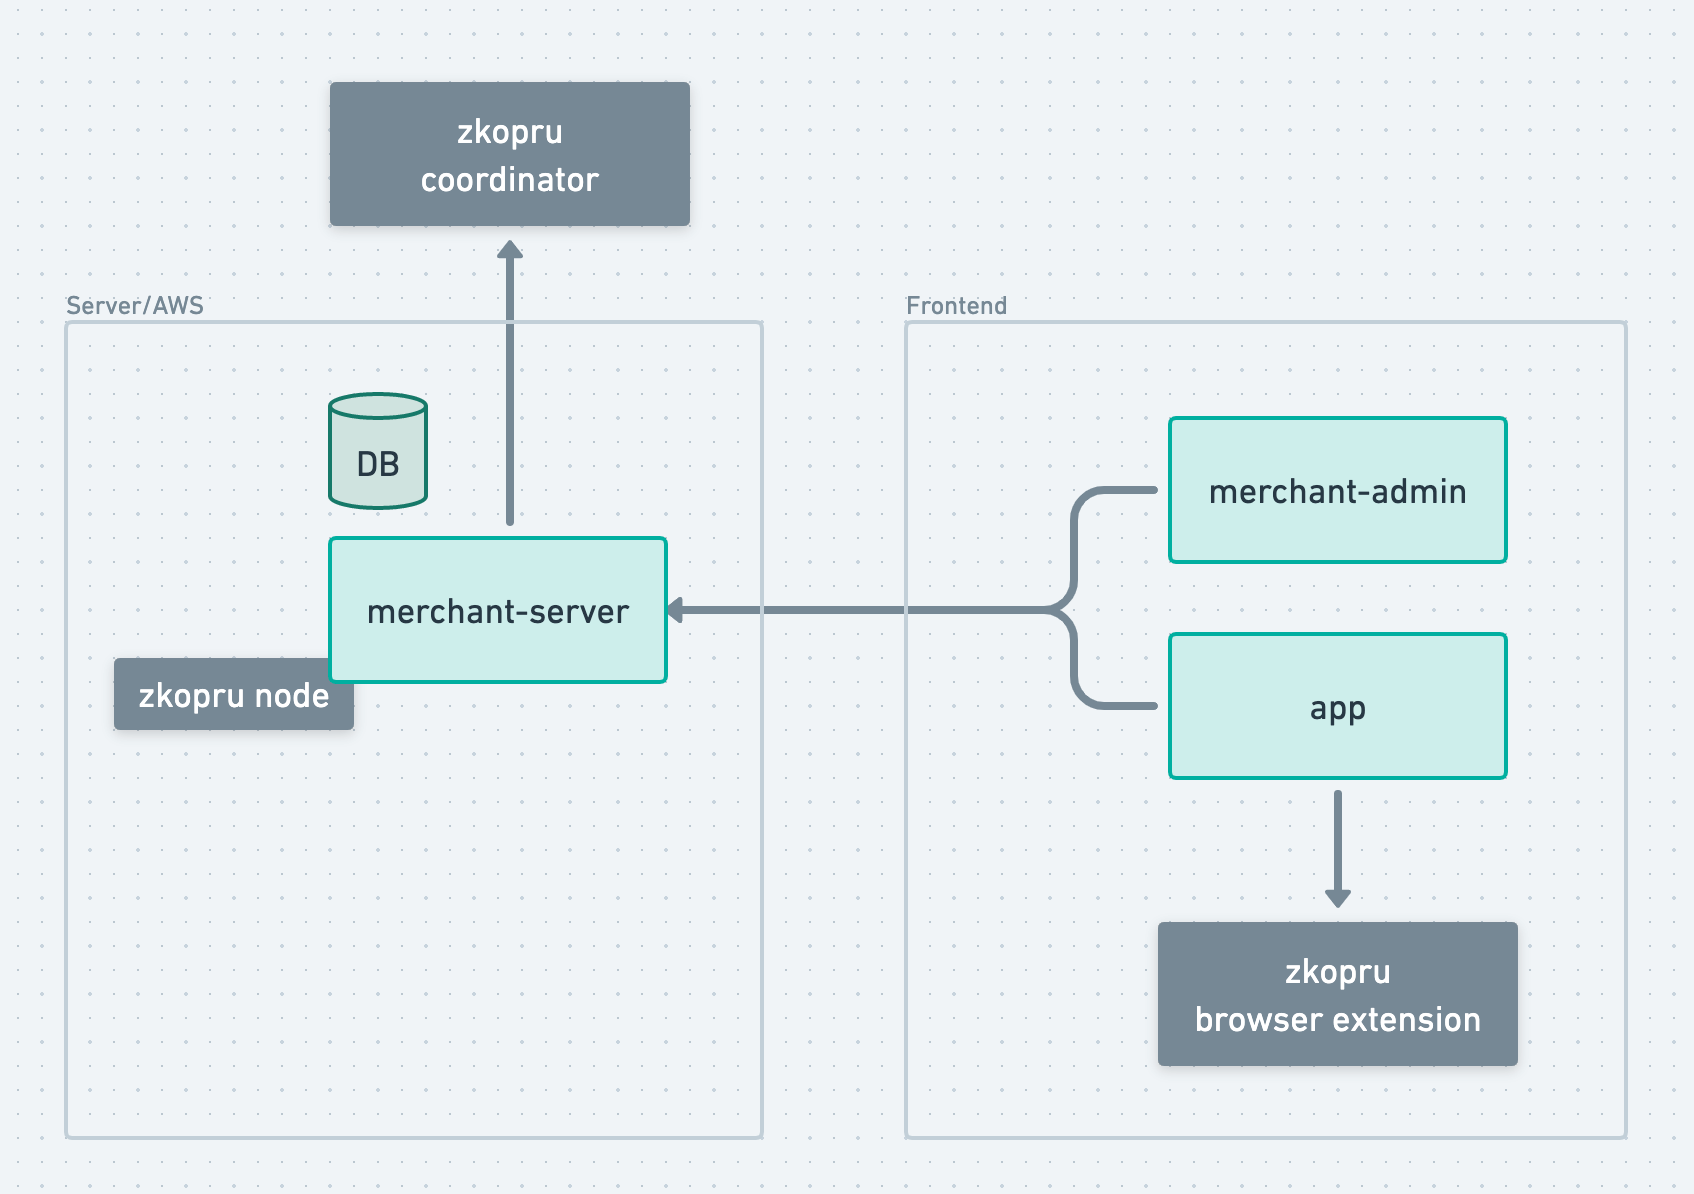
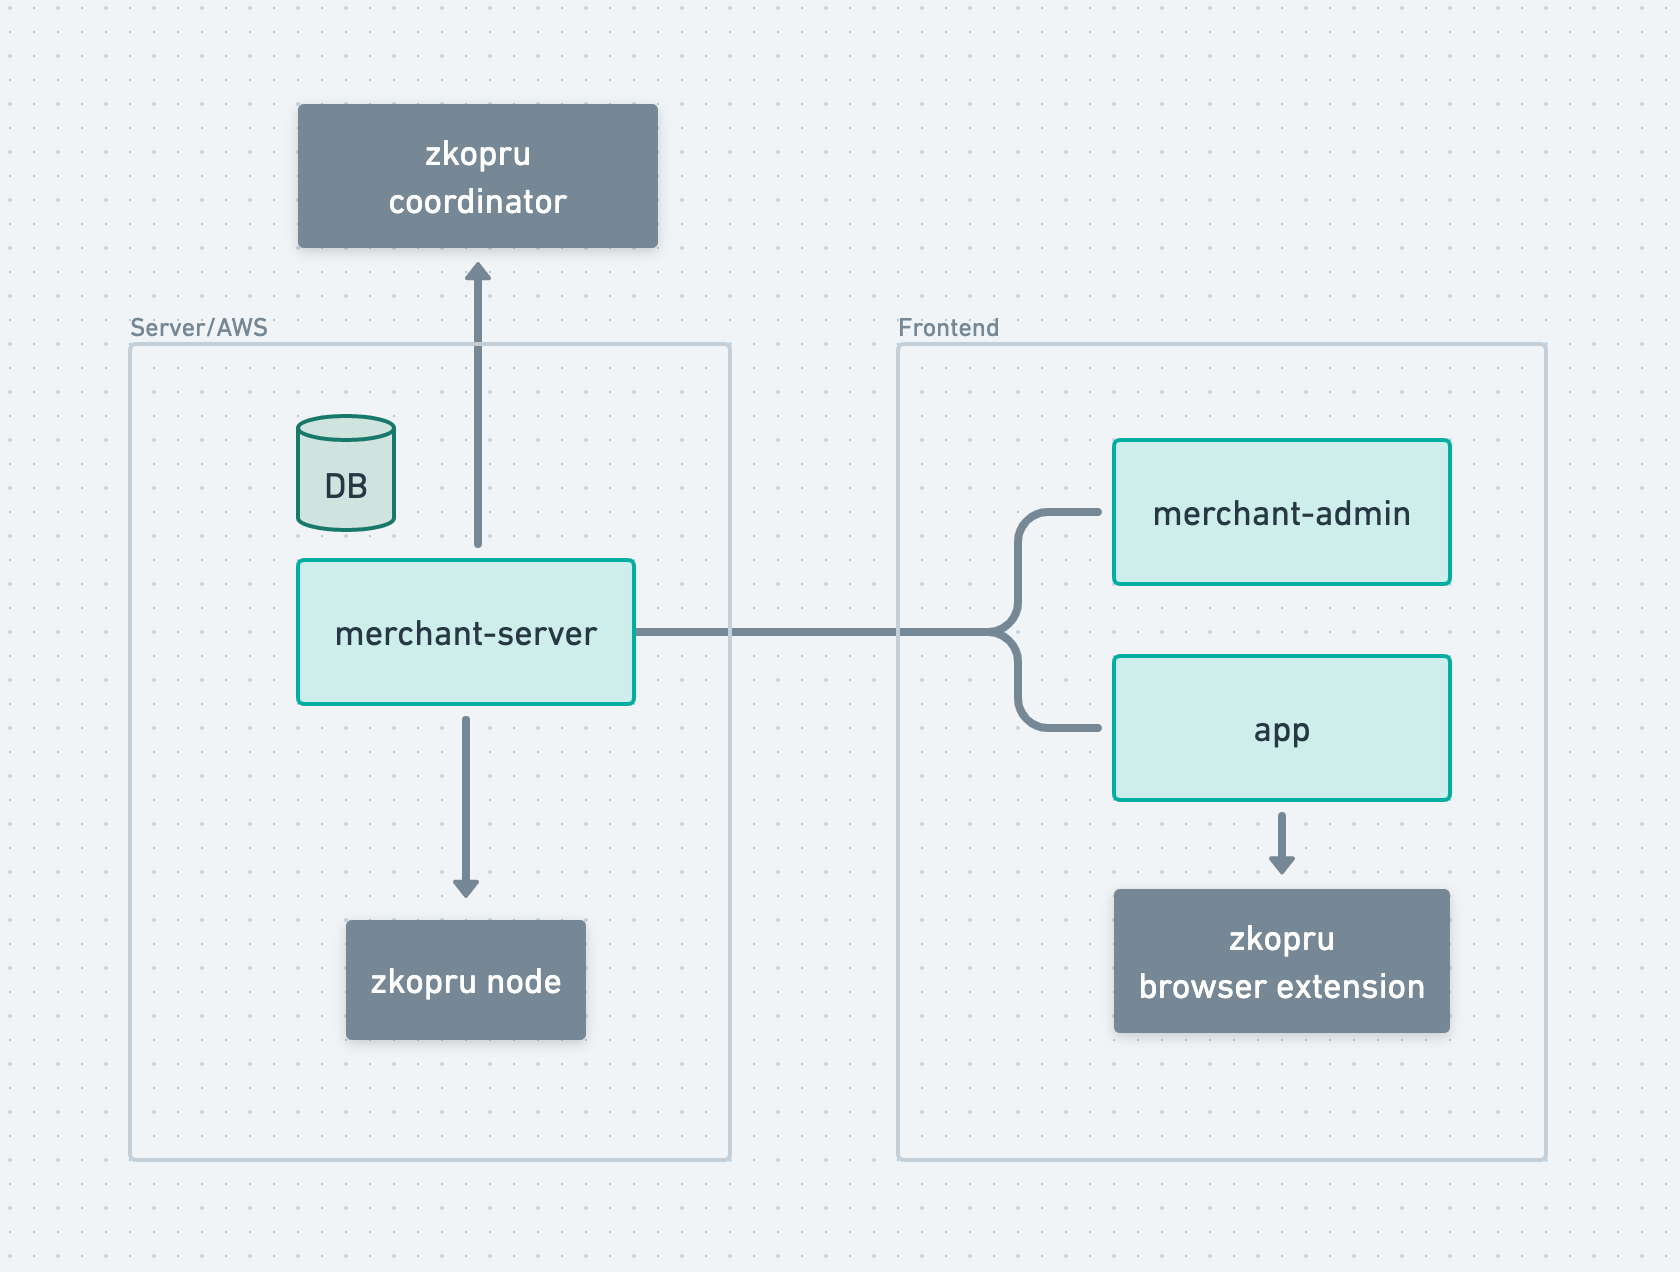
chore: update Zkopru node in architecture diagram

diff --git a/README.md b/README.md
@@ -24,7 +24,7 @@ Suppose a merchant want to sell a NFT for 1.5 ETH, and Alice is planning to purc
 
 ### Detailed flow
 
-- Merchants setup a server that store assets for sale and the inventory in a database. The server would also be running a Zkopru node.
+- Merchants setup a server that store assets for sale and the inventory in a database. Server will connect to a Zkopru node and would be configured with merchant's wallet.
 - `Merchant Admin` app can be used to manage the inventory and see the orders.
 - Customers use the frontend `app` to view the products (tokens) available for purchase, including their price and metadata.
 - Customer create a transaction to transfer the `ETH` required to purchase the item, and send the transaction to the merchant server.
